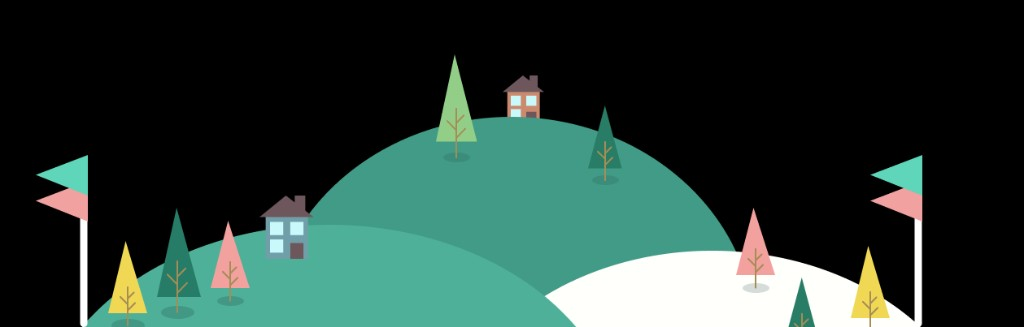
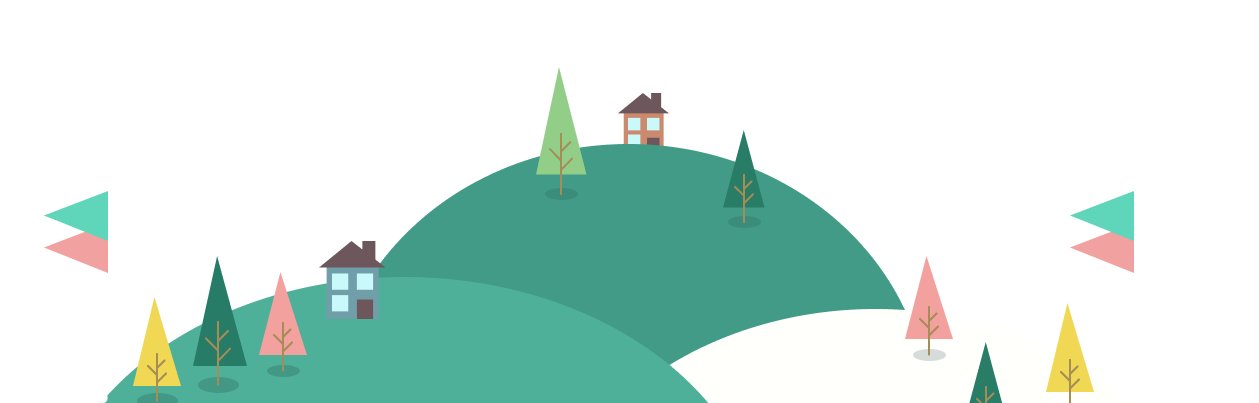
fixing image

diff --git a/src/index.css b/src/index.css
@@ -217,7 +217,7 @@ img { max-width: 100%; display: block; }
   content: '';
   position: absolute;
   bottom: 0; left: 0;
-  width: 100%; height: 45%;
+  width: 60%; height: 45%;
   background: url('/hero-bg.png') bottom center / 100% auto no-repeat;
   z-index: 1;
   pointer-events: none;